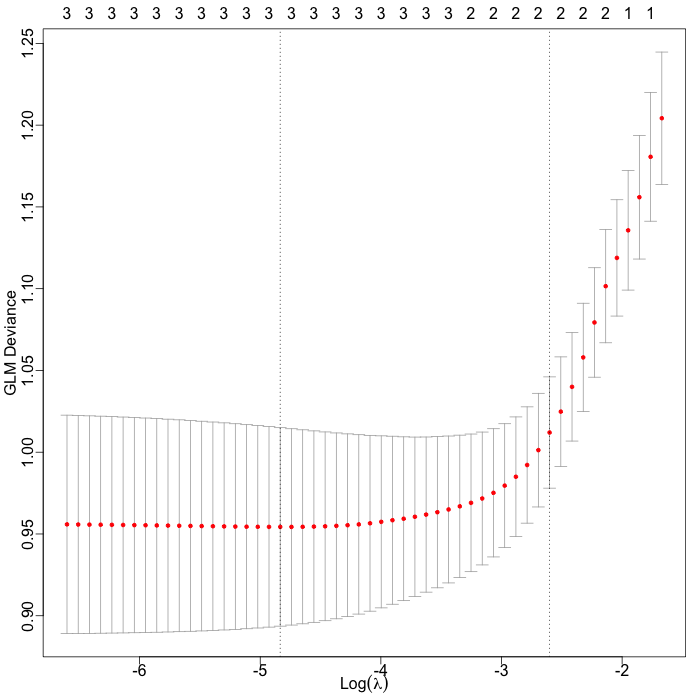
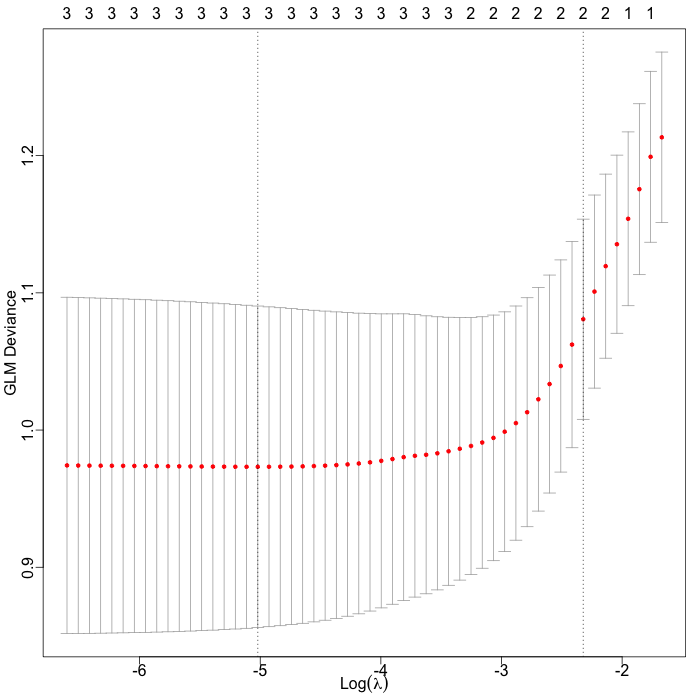
Addendum

diff --git a/_posts/2025-02-24-trump-polit-targets.md b/_posts/2025-02-24-trump-polit-targets.md
@@ -224,7 +224,7 @@ Number of Fisher Scoring iterations: 5
   > experienced in OLS, it is not as well behaved as the $\rho^2$ measure, for ML
   > estimation. Those unfamiliar with $\rho^2$ should be forewarned that its values tend
   > to be considerably lower than those of the $R^2$ index&hellip; For example, values of
-  > 0.2 to 0.4 for $\rho^2$ represent __excellent__ fit.  
+  > 0.2 to 0.4 for $\rho^2$ represent __excellent__ fit."  
   
 So this looks pretty good: an excellent fit, emphasizing ideology score while reluctantly
 admitting a very slight effect for budget and staff size.  
@@ -253,18 +253,18 @@ of regression coefficients we should believe.
 And that's exactly the question addressed here in the next graph.  
 
 The vertical axis is the crossvalidated error rate (for a logistic regression model,
-"deviance").  The horizontal axis is $\lambda$, the L1/LASSO penalty.  Across the top of
+"deviance").  The horizontal axis is $\log\left(\lambda\right)$, the L1/LASSO penalty.  Across the top of
 the graph, the mysterious integers are the number of parameters with regression
 coefficients allowed to be nonzero at that value of $\lambda$.  You can see it decrease
 from 3 to 2 to 1 as we make the penalty more severe.  
 
-Obviously, we'd like the error rate to be small, and indeed as $\lambda$ is relaxed we
+Obviously, we'd like the error rate to be small, and indeed as $\log\left(\lambda\right)$ is relaxed we
 introduce more variables, allow their regression coefficients to become large, and the
 error rate goes down.
 
 Up to a point!  
 
-The error does not decrease further below about $\lambda = -4$.  Technically, the minimum is just
+The error does not decrease further below about $\log\left(\lambda\right) = -4$.  Technically, the minimum is just
 around -5, where the vertical line indicates the "best" model with minimum error rate.
 But really, there's a broad, flat plateau where the error rate is about the same.  This
 "best" model is a 3-parameter model, using all 3 of our predictors.  
@@ -277,6 +277,20 @@ which has rejected one of our covariates.  Based on the correlation (smallest co
 with DOGE layoffs) and the na&iuml;ve regression above (least significant coefficient), we
 guess that it eliminates staff size.  
 
+The crossvalidated result from `cv.glmnet()` tells us the value of $\lambda$ at those 2
+points, the error rate, and the number of nonzero parameters:  
+```R
+> cv.glmMdl
+
+Call:  cv.glmnet(x = mx, y = foo$doge_layoffs, alpha = 1, family = binomial(link = "logit")) 
+
+Measure: GLM Deviance 
+
+     Lambda Index Measure      SE Nonzero
+min 0.00795    35  0.9648 0.09234       3
+1se 0.08140    10  1.0437 0.07921       2
+```
+
 Let's see what those models are:  
 - The "best" model uses all 3 variables:
   ```
@@ -287,10 +301,10 @@ Let's see what those models are:
   ```
 - The 1SE model (simplest one within 1 standard error of the best) uses 2, dropping staff:  
   ```
-  (Intercept)                 -3.8950396
-  Perceived_Ideology_Estimate -0.6076673
-  Annual_Budget_USD            0.1313817 (log value)
-  Total_Staff                  .         (log value)
+  (Intercept)                 -2.43285940
+  Perceived_Ideology_Estimate -0.46511838 
+  Annual_Budget_USD            0.06741818 (log value)
+  Total_Staff                  .          (log value)
   ```
 
 So which of these do we choose?
@@ -339,6 +353,100 @@ I'm very sorry I have nothing better than that to offer you.
 Please go do something wonderful and tell me all about it.  
 
 [(_Ceterum censeo, Trump incarcerandam esse._)]({{ site.baseurl }}/trump-danger-test/#the-weekend-conclusion)  
+
+
+## Addendum 2025-Feb-25: Predicting Layoffs, and Bayesian Performance  
+
+If you're curious how, after all that fitting, one _uses_ the model to make predictions,
+here's how!  Of course the details are in the R script; see the function
+`confusionMatrix()`.  
+- Create a matrix of the input variables ideology, log staff, and lot budget for which you
+  want predictions.  
+- Use the `predict()` generic function on the fitted model, the matrix of inputs.  Give it
+  a value of $\lambda$ and tell it you want the "response", or probability, as the
+  output.  
+  
+The we make a _confusion matrix_, which is a 2x2 matrix with the actual DOGE layoffs on
+the rows, and the predictions on the columns, each cell containing an agency count.  In an
+ideal world, this would be perfectly diagonal: the model would predict what happens, and
+no errors (off-diagonal elements) would occur.  
+
+For example, here's the confusion matrices for the $\lambda_{\mbox{min}}$ model with 3
+coefficients:  
+
+```R
+            lambda.min
+doge_layoffs FALSE TRUE
+       FALSE    75    9
+       TRUE     18   16
+```
+
+There are 9 times the model predicted layoffs where there were none, and 18 times when the
+model predicted no layoffs but they happened anyway.
+
+For comparison, here's the confusion matrix for the simpler $\lambda_{\mbox{1SE}}$ model
+about which I had a twitchy feeling:  
+
+```R
+            lambda.1se
+doge_layoffs FALSE TRUE
+       FALSE    84    0
+       TRUE     33    1
+```
+
+Note that this model has a _very_ peculiar property: it almost never predicts layoffs,
+except in 1 case!  Clearly this model has been regularized so violently by LASSO that it's
+been hung by the neck until dead.  
+
+Our intuition to pick the $\lambda_{\mbox{min}}$ model was correct.  
+
+Now we can compute some probabilistic assessments of model performance.
+
+First off, how often is it correct?  This is an overall assessment, useful for telling if
+the model is doing anything but not of much practical use after that:  
+
+$$ 
+\begin{align*}
+  \mbox{Overall correct}   &= \Pr\left(\mbox{DOGE Layoffs & Model prediction agree}\right) \\
+  \mbox{Overall incorrect} &= \Pr\left(\mbox{DOGE Layoffs & Model prediction disagree}\right)
+\end{align*}
+$$
+
+Next, we'd like some Bayesian probabilities: given what the model predicts, what is the
+probability that the actual presence or absence of DOGE layoffs agrees?  Those are,
+respectively, the Positive Predictive Value and the Negative Predictive Value.  
+
+Also, we'd like to quantify our errors.  The Negative Overlooked Value is the chance
+there's a layoff when we predict none, and the False Discovery Rate is the chance there is
+a no layoff when we predict one.  (_NB:_ Not the False Positive Rate, which is its
+Bayesian dual.)  
+
+$$ 
+\begin{align*}
+  \mbox{PPV} &= \Pr\left(\mbox{DOGE Layoffs }\;\;\;\;\:  | \mbox{model positive}\right) \\
+  \mbox{NPV} &= \Pr\left(\mbox{No DOGE Layoffs} | \mbox{model negative}\right) \\
+  \mbox{NOV} &= \Pr\left(\mbox{DOGE Layoffs }\;\;\;\;\:  | \mbox{model negative}\right) \\
+  \mbox{FDR} &= \Pr\left(\mbox{No DOGE Layoffs} | \mbox{model positive}\right)
+\end{align*}
+$$
+
+<a href="{{ site.baseurl }}/images/2025-02-24-trump-polit-targets-performance.jpg"><img src="{{ site.baseurl }}/images/2025-02-24-trump-polit-targets-performance-thumb.jpg" width="400" height="251" alt="Performance measures for best model, and simplest model within 1 std error of that" title="Performance measures for best model, and simplest model within 1 std error of that" style="float: right; margin: 3px 3px 3px 3px; border: 1px solid #000000;"></a>
+So here are how the $\lambda_{\mbox{min}}$ and $\lambda_{\mbox{1SE}}$ models compare.
+
+By these measures, it appears the $\lambda_{\mbox{1SE}}$ is a bit better in some ways, and
+a bit worse in others.  However, if we had not looked at the confusion matrix above, we
+would not know that it _makes only 1 prediction of layoffs!_  That is, the
+$\lambda_{\mbox{1SE}}$ model barely does anything at all.  
+
+The $\lambda_{\mbox{min}}$ model, using ideology, log staff, and log budget, does rather
+well.
+- It's overall right about 77% of the time, which is probably more often than I am overall
+  right about anything.  
+- If it predicts layoffs, there's about a 64% chance that's true.  
+- If it predicts no layoffs, there's about an 81% chance that's true.  
+
+Overall, this is a credible model: it's a good fit, and it makes reasonably correct
+predictions (without being spookily correct like overtrained models).  
 
 ---
 
